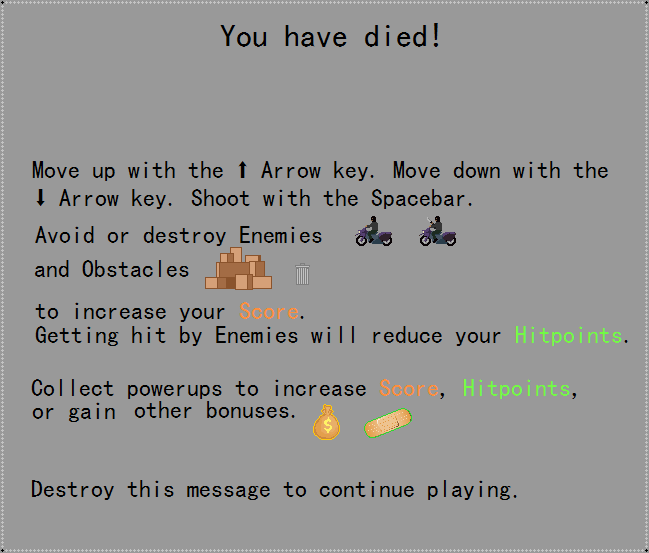
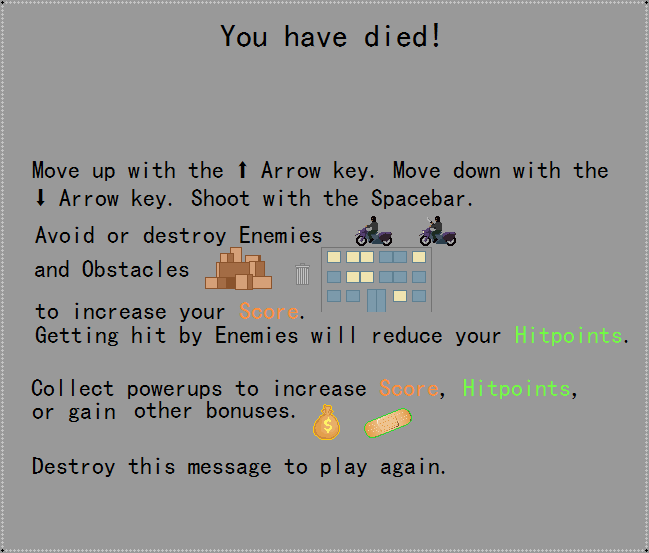
Added a new type of obstacle

Changed region(s): [[0.0308, 0.83, 0.8012, 0.9222], [0.4931, 0.4304, 0.678, 0.5841]]

diff --git a/obstacle.cpp b/obstacle.cpp
@@ -2,19 +2,25 @@
 
 Obstacle::Obstacle() : MeleeEnemy()
 {
-    int random_number = rand() % 2;
-    if (random_number == 0)
+    int random_number = rand() % 5;
+    if (random_number == 0 || random_number == 1)
     {
         setPixmap(QPixmap(":/sprites/boxes2.png"));
         damage_value = 10;
         point_value = 5;
     }
-    else if (random_number == 1)
+    else if (random_number == 2 || random_number == 3)
     {
         setPixmap(QPixmap(":/sprites/trash_can.png"));
         damage_value = 40;
         point_value = 20;
     }
-
+    else if (random_number == 4)
+    {
+        setPixmap(QPixmap(":/sprites/Building.png"));
+        damage_value = 100;
+        point_value = 100;
+        hitpoints = 5;
+    }
 }
 

diff --git a/game.cpp b/game.cpp
@@ -56,17 +56,6 @@ Game::Game(QWidget *parent)
     show();
 }
 
-/*
-Game::~Game()
-{
-    scene = nullptr;
-    player = nullptr;
-    int final_score = score->getScore();
-    score = nullptr;
-    player_hp = nullptr;
-}
-*/
-
 void Game::end()
 {
     //qDebug() << "Successfully quit program";
